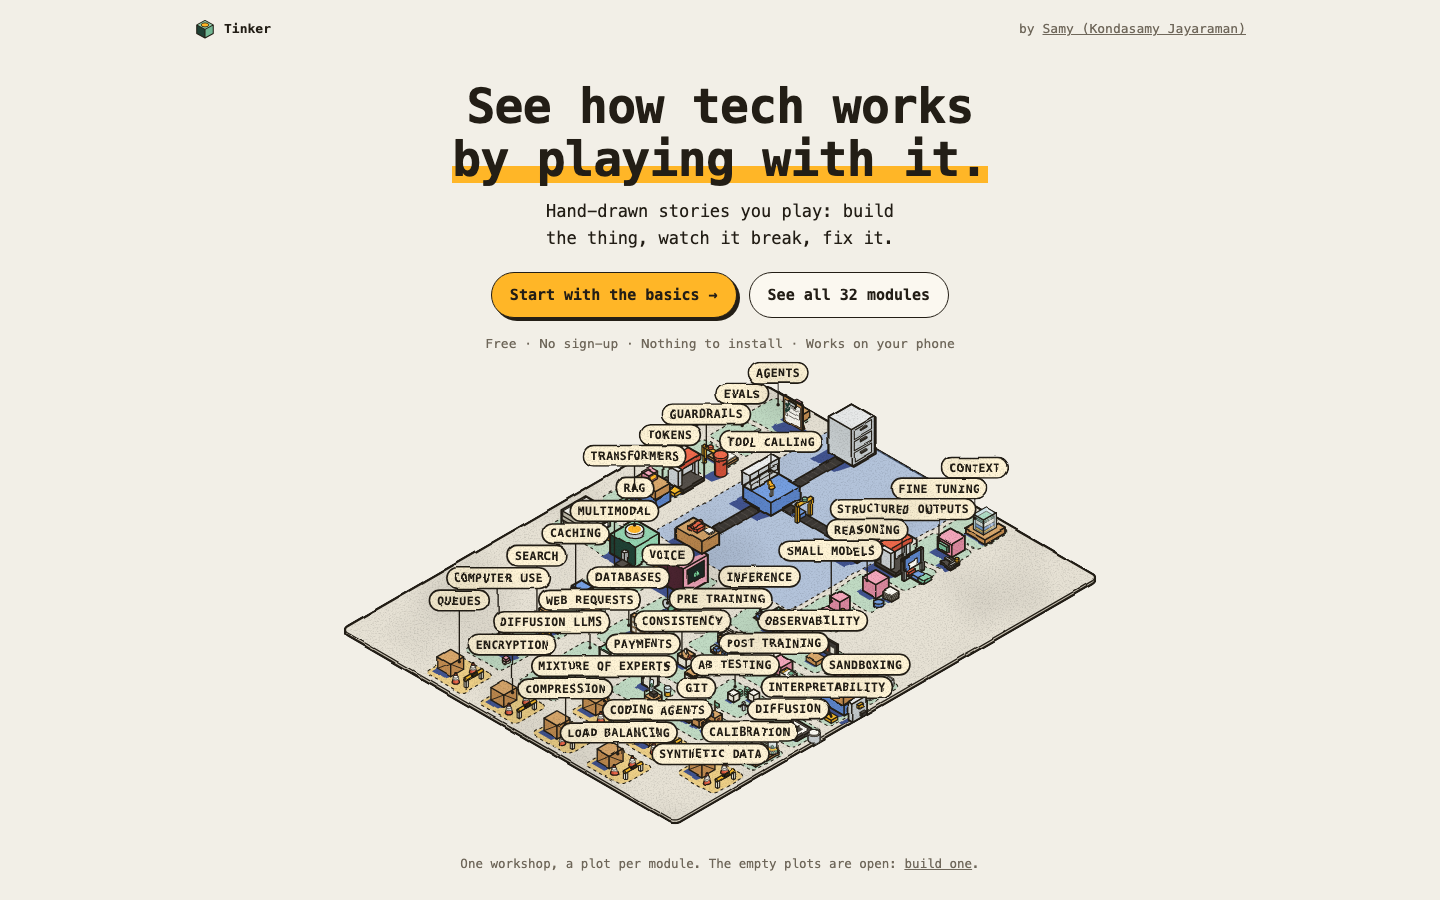
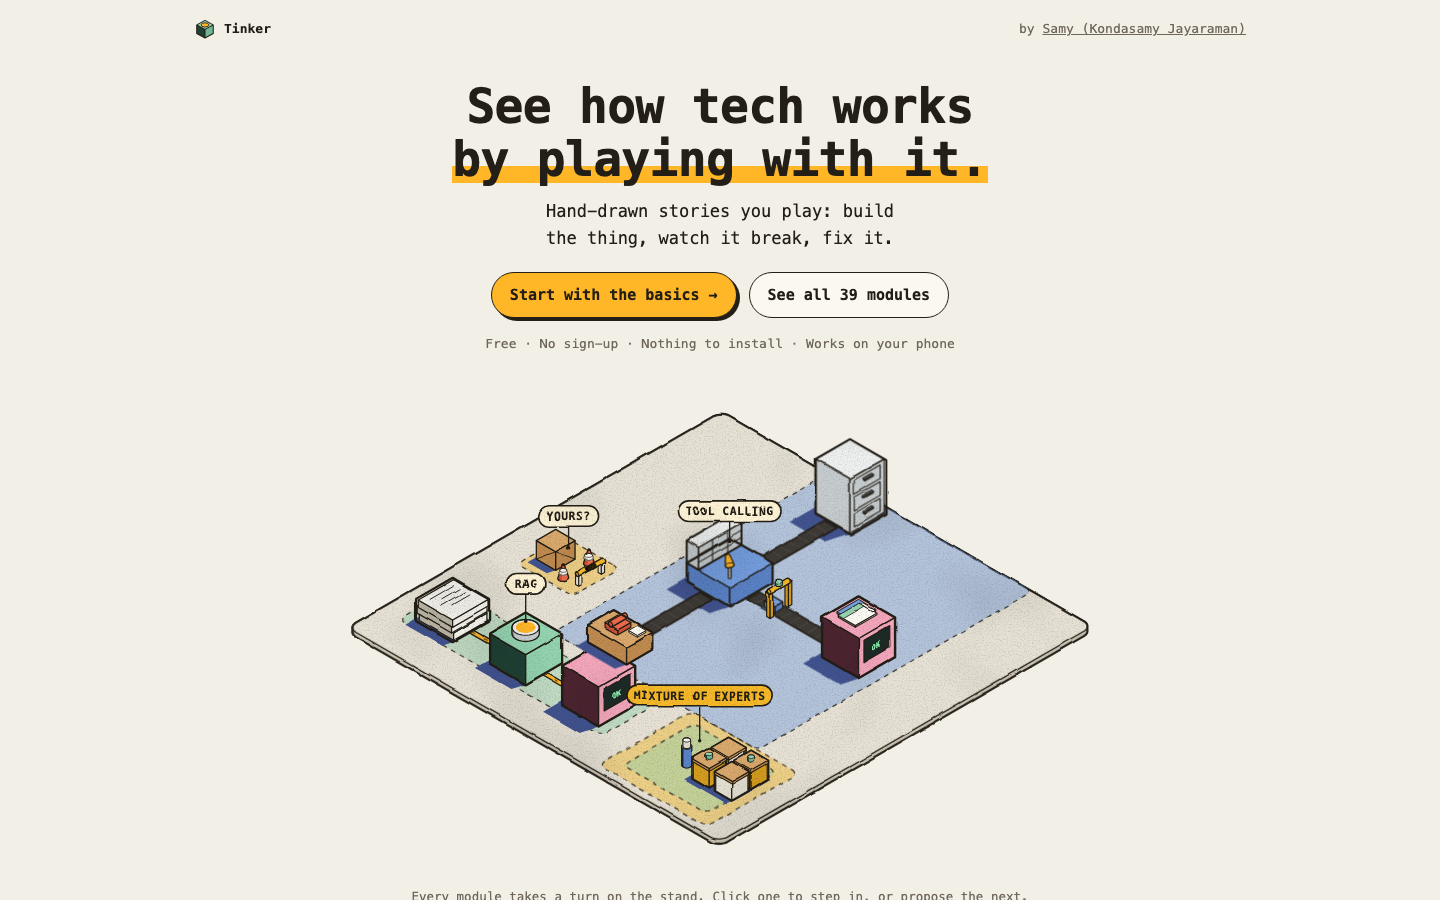
docs: a README that doesn't grow with every module
Drop the module table and per-module build notes; point to the home
catalogue, the registry and docs/modules instead. New home screenshot.

diff --git a/README.md b/README.md
@@ -4,79 +4,25 @@
 
 Each module is a short story you play through: the picture on the left is live, the story on the right asks you to do one thing at a time in it, and you watch what changes. Build the thing, break it, fix it.
 
-![Tinker home: one workshop, a plot per module; a wave names each module in turn. Thirty-nine modules are live, from RAG and tool calling to search, card payments, Git, diffusion language models, queues, compression, load balancing, encryption, coding agents, synthetic data and mixture of experts](docs/images/home.png)
-
----
+![Tinker home: the workshop, where each module takes a turn on the stand](docs/images/home.png)
 
 ## Modules
 
-Every module has a level, a story, an intro at `/<module>/`, its chapters, and a recap at `/<module>/recap/`. The home page lists them by level, numbered in the order they went live, with the planned modules as roadmap cards. Readers propose new ones through the form at the bottom of the home page.
+Every module has an intro at `/<module>/`, its chapters, and a recap at `/<module>/recap/`. They run from beginner to advanced, across AI (RAG, agents, transformers, evals…) and classic tech (caching, Git, payments, queues…).
 
-| Level | Module | Status |
-|---|---|---|
-| Beginner | [RAG: Retrieval-Augmented Generation](https://tinker.kondasamy.com/rag/) | Live, 7 chapters |
-| Beginner | [Tokens & embeddings](https://tinker.kondasamy.com/tokens/) | Live, 7 chapters |
-| Beginner | [Caching & CDNs](https://tinker.kondasamy.com/caching/) | Live, 7 chapters |
-| Beginner | [Databases & indexes](https://tinker.kondasamy.com/databases/) | Live, 7 chapters |
-| Beginner | [A/B testing](https://tinker.kondasamy.com/ab-testing/) | Live, 7 chapters |
-| Beginner | [Search before AI](https://tinker.kondasamy.com/search/) | Live, 7 chapters |
-| Beginner | [Opening a web page](https://tinker.kondasamy.com/web-requests/) | Live, 7 chapters |
-| Beginner | [Card payments](https://tinker.kondasamy.com/payments/) | Live, 7 chapters |
-| Beginner | [Git](https://tinker.kondasamy.com/git/) | Live, 7 chapters |
-| Beginner | [Queues and background jobs](https://tinker.kondasamy.com/queues/) | Live, 7 chapters |
-| Beginner | [Compression](https://tinker.kondasamy.com/compression/) | Live, 7 chapters |
-| Beginner | [Locks and keys](https://tinker.kondasamy.com/encryption/) | Live, 7 chapters |
-| Intermediate | [Tool calling & MCP](https://tinker.kondasamy.com/tool-calling/) (RAG recommended first) | Live, 7 chapters |
-| Intermediate | [Evals & LLM testing](https://tinker.kondasamy.com/evals/) (RAG recommended first) | Live, 7 chapters |
-| Intermediate | [Prompt injection & guardrails](https://tinker.kondasamy.com/guardrails/) (Tool calling recommended first) | Live, 7 chapters |
-| Intermediate | [Context engineering & memory](https://tinker.kondasamy.com/context/) (RAG and Tool calling recommended first) | Live, 7 chapters |
-| Intermediate | [Structured outputs](https://tinker.kondasamy.com/structured-outputs/) (Tool calling and Tokens recommended first) | Live, 7 chapters |
-| Intermediate | [Reasoning models & thinking budgets](https://tinker.kondasamy.com/reasoning/) (Evals recommended first) | Live, 7 chapters |
-| Intermediate | [Observability & error analysis](https://tinker.kondasamy.com/observability/) (Evals recommended first) | Live, 7 chapters |
-| Intermediate | [Multimodal models](https://tinker.kondasamy.com/multimodal/) (Tokens recommended first) | Live, 7 chapters |
-| Intermediate | [Pre-training](https://tinker.kondasamy.com/pre-training/) (Tokens recommended first) | Live, 7 chapters |
-| Intermediate | [Diffusion models](https://tinker.kondasamy.com/diffusion/) (Multimodal recommended first) | Live, 7 chapters |
-| Intermediate | [Calibration](https://tinker.kondasamy.com/calibration/) (Evals recommended first) | Live, 7 chapters |
-| Intermediate | [Load balancing](https://tinker.kondasamy.com/load-balancing/) | Live, 7 chapters |
-| Intermediate | [Coding agents](https://tinker.kondasamy.com/coding-agents/) (AI agents recommended first) | Live, 7 chapters |
-| Intermediate | [Synthetic data](https://tinker.kondasamy.com/synthetic-data/) (Fine-tuning recommended first) | Live, 7 chapters |
-| Advanced | [AI agents](https://tinker.kondasamy.com/agents/) (Tool calling recommended first) | Live, 7 chapters |
-| Advanced | [Transformer architecture](https://tinker.kondasamy.com/transformers/) (Tokens recommended first) | Live, 7 chapters |
-| Advanced | [Fine-tuning vs prompting](https://tinker.kondasamy.com/fine-tuning/) (Evals and Transformers recommended first) | Live, 7 chapters |
-| Advanced | [Small models: distillation & routing](https://tinker.kondasamy.com/small-models/) (Fine-tuning and Evals recommended first) | Live, 7 chapters |
-| Advanced | [Inference engineering](https://tinker.kondasamy.com/inference/) (Transformers recommended first) | Live, 7 chapters |
-| Advanced | [Agent sandboxing](https://tinker.kondasamy.com/sandboxing/) (AI agents and Guardrails recommended first) | Live, 7 chapters |
-| Advanced | [Voice agents](https://tinker.kondasamy.com/voice/) (Tool calling and Multimodal recommended first) | Live, 7 chapters |
-| Advanced | [Post-training](https://tinker.kondasamy.com/post-training/) (Fine-tuning and Evals recommended first) | Live, 7 chapters |
-| Advanced | [Interpretability](https://tinker.kondasamy.com/interpretability/) (Transformers recommended first) | Live, 7 chapters |
-| Advanced | [Replication & consistency](https://tinker.kondasamy.com/consistency/) (Databases recommended first) | Live, 7 chapters |
-| Advanced | [Computer use](https://tinker.kondasamy.com/computer-use/) (AI agents and Multimodal recommended first) | Live, 7 chapters |
-| Advanced | [Diffusion language models](https://tinker.kondasamy.com/diffusion-llms/) (Diffusion models and Transformers recommended first) | Live, 7 chapters |
-| Advanced | [Mixture of experts](https://tinker.kondasamy.com/mixture-of-experts/) (Transformers recommended first) | Live, 7 chapters |
-| Beginner | Logins and passwords | Planned |
-| Beginner | How email arrives | Planned |
-| Intermediate | What a model remembers | Planned |
-| Intermediate | Recommendations | Planned |
-| Intermediate | Dependencies | Planned |
-| Intermediate | Shipping a release | Planned |
-| Advanced | Video and world models | Planned |
+The catalogue lives on the [home page](https://tinker.kondasamy.com/#modules); its source of truth is the registry, `src/lib/modules.ts`. Planned modules show there as roadmap cards, and readers propose new ones through the form at the bottom of the home page.
 
 ![A RAG chapter: the live pipeline on the left, the story on the right](docs/images/chapter.png)
 
 ## How it's built
 
-- **Static site:** Astro with React islands. No backend, no API key, no live model, so it runs on any static host, and a chapter keeps working offline once its data has loaded.
-- **Real retrieval, precomputed answers (RAG):** the corpus is embedded at build time (`pnpm build:index`, all-MiniLM-L6-v2 and a cross-encoder reranker); the browser runs the real similarity, BM25, reranking, graph-walk and agent maths over those vectors. Model answers are pre-recorded for each kind of evidence that can reach the model, so every knob changes the outcome honestly.
-- **Recorded turns, live tools (Tool calling, AI agents):** the model's turns are pre-recorded per scenario (`data/tool-calling/turns/`). The host loop, a JSON Schema subset validator, the approval gate, the tools running on fixture data and an MCP-shaped JSON-RPC server all run in the browser (`src/lib/tools/`). A unit test checks every reachable control setting has a recorded turn. MCP facts come from `data/tool-calling/facts.json`, each with its source. The agent loop (`src/lib/agents/`) reuses those tools and adds plans, approval, budgets, a repeat detector, memory and helpers, all computed in the browser; its recorded turns are in `data/agents/turns/` and its facts in `data/agents/facts.json`. The guardrails loop (`src/lib/guardrails/`) puts defences around the model as host stages (input filters, the taint rule, the allow-list, the output filter, policy checks, approval); its turns are in `data/guardrails/turns/`, its stand-in classifier's hand-set scores in `data/guardrails/inbox.json`, and its attack and customer suites in `data/guardrails/suite.json`.
-- **Real retrieval, recorded grading (Evals):** each version of the assistant runs RAG's real retrieval over the same 12 questions and reads the recorded answer for what it found. Code graders run in the browser (`src/lib/evals/`); the model judge's verdicts, people's labels and repeated tries are recorded in `data/evals/`, and every combination a control can reach is checked by a unit test.
-- **Pictures:** hand-inked isometric figures drawn by the Colorfigures engine (see Credits), extended to orbit, zoom and turn the view. Each module leads with a scene you can picture rather than a flow chart (RAG's pipeline on a workbench, tool calling's back office, caching's depot map, Git's crate yard…), one file each in `src/components/scenes/`, and the home page's animated workshop has a plot per module (`heroScene.ts`). Flat figures (`src/lib/iso/flat.ts`) in the same ink show the exact messages or charts a tab away. Names sit in label pills so they stay readable.
-- **Search:** every page has its own title, description, canonical URL and share image; intros and chapters carry schema.org course and lesson data with breadcrumbs; `/sitemap.xml` and `/robots.txt` are built from the page list, and recaps and the 404 page stay out of search.
-- **Works on a phone:** below 861px the picture stacks above the story, pills grow, and the sequence shows one message at a time.
-
-- **Story:** every chapter is a list of steps run by one step runner (`src/components/story/`): each step has narration, the one control it needs, a check that advances it, hints after a few tries and, for puzzles, “Show me”. Progress is saved in the browser, per module.
-- **Pictures first, words on request:** each module intro opens in a Pictures reading mode (pictures, headings and one-line captions, the chapters as picture cards); a Words switch shows the full text.
-- **Making it stick:** chapters ask for a prediction before a reveal, quizzes explain why each option is right or wrong and offer “I’m not sure”, each module's recap asks recall questions from the chapters you finished, and a reader who returns 20 hours or more after finishing a chapter is offered a short warm-up. Nothing leaves the browser.
-- **Tests:** unit tests for the engine and story logic (Vitest), and end-to-end tests that play every chapter, check accessibility with axe, keyboard-only play, reduced motion, phone size and offline use (Playwright).
+- **Static site:** Astro with React islands. No backend, no API key, no live model; it runs on any static host, and a chapter keeps working offline once its data has loaded.
+- **Real maths, recorded models:** whatever can run in the browser does (retrieval, validators, simulators, graders, a tiny trained model); whatever needs a real model is recorded ahead of time and labelled as such. Each module's engine and data are described in `docs/modules/<module>.md`.
+- **Pictures:** hand-inked isometric scenes drawn with the Colorfigures engine (see Credits), one per module in `src/components/scenes/`, with flat figures (`src/lib/iso/flat.ts`) a tab away. Names sit in label pills.
+- **Story:** every chapter is a list of steps run by one step runner (`src/components/story/`): narration, the one control it needs, a check that advances it, hints, and “Show me” for puzzles. Progress is saved in the browser, per module.
+- **Making it stick:** predict before a reveal, quizzes that explain every option, a recap of recall questions, and a short warm-up when you come back. Nothing leaves the browser.
+- **Search and sharing:** every page has its own title, description, canonical URL, structured data and 1200×630 share image.
+- **Tests:** Vitest for the engines and story logic; Playwright plays every chapter and checks accessibility (axe), keyboard play, reduced motion, phone size and offline use.
 
 <p align="center"><img src="docs/images/phone.png" width="300" alt="A tool calling chapter on a phone: the back office above, the INVALID call held at the schema check"></p>
 
